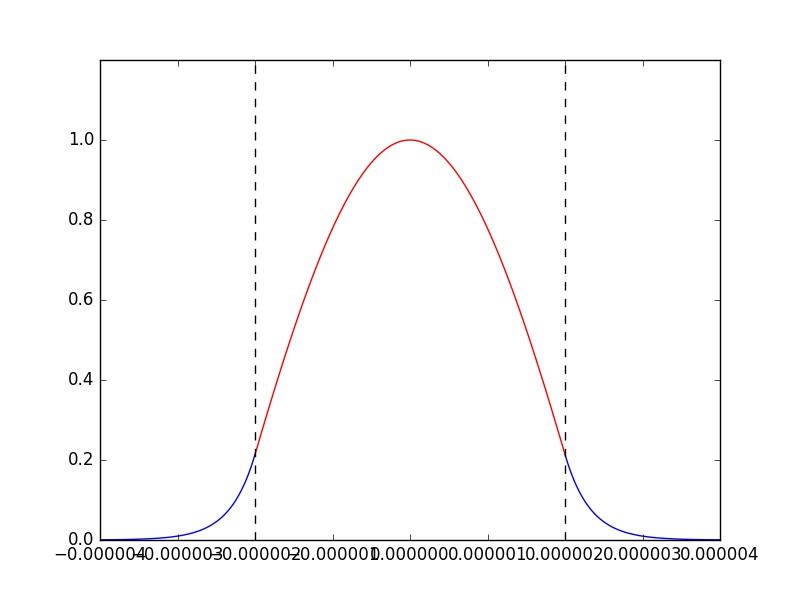
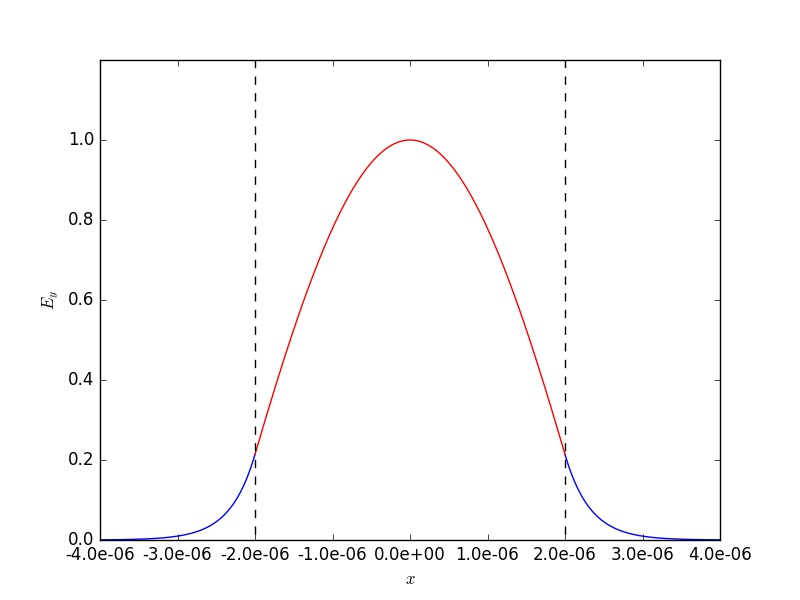
editing plotting programs to get data for final write up

Changed region(s): [[0.0625, 0.9, 0.9688, 0.93]]

diff --git a/plotter.py b/plotter.py
@@ -1,31 +1,36 @@
 import numpy as np
 import matplotlib.pyplot as plt
+from matplotlib.ticker import FormatStrFormatter
 
 
 
 if __name__=='__main__':
 
-    data = np.genfromtxt("tmvalues1.343061.txt")
+    data = np.genfromtxt("./modes/values1.355118.txt")
     r, a, x, y = data
 
 
     c = np.exp(y)*np.cos(x)
-
+    print(c)
     mu, gamma = x/a, y/a
 
     x1 = np.linspace(-2*a, -a, 100)
     x2 = np.linspace(-a, a, 200)
     x3 = np.linspace(a, 2*a, 100)
+    
+    fig, ax = plt.subplots()
 
+    ax.plot(x1, c*np.exp(gamma*x1), 'b-')
+    ax.plot(x3, c*np.exp(-gamma*x3), 'b-')
+    ax.plot(x2, np.cos(mu*x2), 'r-')
 
-    plt.plot(x1, c*np.exp(gamma*x1), 'b-')
-    plt.plot(x3, c*np.exp(-gamma*x3), 'b-')
-    plt.plot(x2, np.cos(mu*x2), 'r-')
+    ax.plot(-a*np.ones(100), np.linspace(-1.5, 1.5, 100), 'k--')
+    ax.plot(a*np.ones(100), np.linspace(-1.5, 1.5, 100), 'k--')
 
-    plt.plot(-a*np.ones(100), np.linspace(-1.5, 1.5, 100), 'k--')
-    plt.plot(a*np.ones(100), np.linspace(-1.5, 1.5, 100), 'k--')
-
-    #plt.ylim(0, 1.2)
-    plt.savefig("TM1.jpeg")
+    ax.set_ylim(0, 1.2)
+    ax.set_xlabel(r'$x$')
+    ax.set_ylabel(r'$E_y$')
+    ax.xaxis.set_major_formatter(FormatStrFormatter('%.1e'))
+    plt.savefig("./plots/TE0.jpeg")
     plt.show()
 
